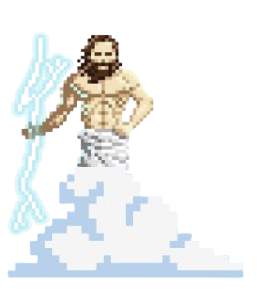
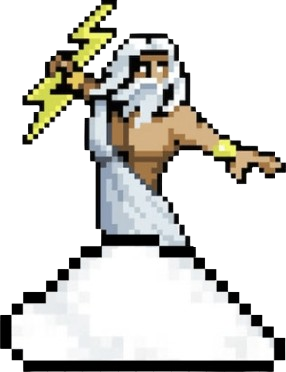
changed lightning hitboxes and updated Zeus

diff --git a/attacks.py b/attacks.py
@@ -1,15 +1,26 @@
 import random
 
+from kivy.clock import Clock
+from kivy.core.window import Window
 from kivy.uix.button import Button
 from kivy.uix.gridlayout import GridLayout
 from kivy.uix.image import Image
+from kivy.uix.label import Label
+
+from music_client import music_client
+from player_class import player
 
 # // images used
 red_circle = './Resources/game_screen/attacks/red_circle.png'
 red_cross = './Resources/game_screen/attacks/red_cross.png'
+lightning_dir = 'Resources/game_screen/lightning/'
+
+joystick_area = [60, 61, 62, 63, 75, 76, 77, 78, 90, 91, 92, 93]
 
 
 class AttackGrid(GridLayout):
+    """Class that creates a grid with labals and red circles indicating incoming lightning bolts"""
+
     def __init__(self, **kwargs):
         super().__init__(**kwargs)
 
@@ -17,26 +28,66 @@ class AttackGrid(GridLayout):
         self.rows = 9
 
         self.status = 'pre_lightning'
-        self.lightning = Lightning()
 
+        # // variables for attack grid
         self.attack_locations = choose_attack_locations()
         self.attack_circles = []
         self.opacity_direction = 'down'
+
+        # // variables for lightning attack
+        self.frames_since_lightning_update = 0
+        self.lightning_animation_frame = 1
+        self.lightning_bolts = []
 
         self.draw_attack_circles()
 
     def draw_attack_circles(self) -> None:
         """Draw a grid of future attack locations marked by a red circle"""
 
-        for i in range(1, 106):
+        for i in range(105):
             if i in self.attack_locations:
                 attack_circle = Image(source=red_circle, allow_stretch=True, keep_ratio=False)
                 self.add_widget(attack_circle)
                 self.attack_circles.append(attack_circle)
             else:
-                self.add_widget(Button(background_color=(0, 0, 0, 1), disabled=True))
+                self.add_widget(Label())
 
-    def update_attack(self) -> None:
+    def draw_lightning(self) -> None:
+        """Updates lightning on screen"""
+
+        for i in range(0, 105):
+            if i in self.attack_locations:
+                lightning_bolt = Image(source=f'{lightning_dir}lightning_frame'
+                                              f'_{self.lightning_animation_frame}.png',
+                                       allow_stretch=True, keep_ratio=False)
+                self.add_widget(lightning_bolt)
+                self.lightning_bolts.append(lightning_bolt)
+
+            # // A label doesn't hinder touching the joystick
+            elif i in joystick_area:
+                self.add_widget(Label())
+            else:
+                self.add_widget(Button(background_color=(0, 0, 0, 0), disabled=True))
+
+        Clock.schedule_once(self.check_for_player_damage)
+
+    def check_for_player_damage(self, instance) -> None:  # noqa
+        """Check if the player is standing in any lightning bolts, if yes subtract 1 from the player's hp"""
+
+        player_tile_x = player.player.x // (Window.size[0] / 15) + 1
+        player_tile_y = player.player.y // (Window.size[1] / 9)
+
+        if player_tile_y > 0:
+            player_tile = 105 - player_tile_y * 15
+        else:
+            player_tile = 105
+        player_tile -= (15 - player_tile_x)
+
+        if player_tile in self.attack_locations:
+            player.hp -= 1
+            return
+
+    def update_attack_animation(self) -> None:
         """Update attack circles or lightning depending on attack status"""
 
         # // if the red warning circles are still on screen
@@ -58,10 +109,31 @@ class AttackGrid(GridLayout):
                 # // remove them from the screen and start the lightning
                 if self.attack_circles[0].opacity == 1:
                     self.clear_widgets()
+                    self.draw_lightning()
+                    music_client.play_thunder_sfx()
                     self.status = 'during_lightning'
 
         elif self.status == 'during_lightning':
-            ...
+
+            # // check if lightning animation frame should be updated
+            if self.frames_since_lightning_update == 10:
+
+                # // update to the next animation frame and end the attack if needed
+                self.lightning_animation_frame += 1
+                if self.lightning_animation_frame == 8:
+                    self.clear_widgets()
+                    self.status = 'finished'
+                    return
+
+                # // update every lightning bolt
+                for image in self.lightning_bolts:
+                    image.source = (f'{lightning_dir}lightning_frame_'
+                                    f'{self.lightning_animation_frame}.png')
+
+                self.frames_since_lightning_update = 0
+
+            else:
+                self.frames_since_lightning_update += 1
 
 
 def choose_attack_locations() -> list:
@@ -69,21 +141,15 @@ def choose_attack_locations() -> list:
 
     locations = []
 
-    for i in range(52):
+    for i in range(26):
+
+        # // Make sure attacks don't spawn in joystick
         while True:
             new_location = random.randint(31, 106)
-            if new_location in [61, 62, 63, 76, 77, 78, 91, 92, 93]:
+            if new_location in joystick_area:
                 continue
             else:
                 break
         locations.append(new_location)
 
     return locations
-
-
-class Lightning:
-    def __init__(self):
-        ...
-
-    def update_lightning(self):
-        ...

diff --git a/game_screen.py b/game_screen.py
@@ -27,7 +27,6 @@ class GameScreen(Screen):
 
     def __init__(self, **kwargs):
         super(GameScreen, self).__init__(**kwargs)
-        self.counter = 0
 
         widgets = game_screen_widgets()
         self.add_widget(widgets)
@@ -62,12 +61,6 @@ class GameScreen(Screen):
                 self.manager.transition = FadeTransition()
                 self.manager.current = 'game_over'
                 self.manager.transition = NoTransition()
-            #
-            # if self.counter == 100:
-            #     player.hp -= 1
-            #     self.counter = 0
-            # else:
-            #     self.counter += 1
 
 
 class game_screen_widgets(FloatLayout):
@@ -122,14 +115,13 @@ class game_screen_widgets(FloatLayout):
         # // update player location on screen
         player.update_player(self)
 
-        # // update Zeus's position
-        zeus.update_zeus(self)
-
         # // update attack
         if self.attack_on_screen is True:
             if self.attack_grid.status == 'finished':
                 self.attack_on_screen = False
                 self.frames_since_last_attack = 0
+            else:
+                self.attack_grid.update_attack_animation()
 
         else:
             if self.frames_since_last_attack == 100:
@@ -139,48 +131,6 @@ class game_screen_widgets(FloatLayout):
 
             else:
                 self.frames_since_last_attack += 1
-
-        # # // update attack
-        # if self.frames_since_attack_change == 100:
-        #     if self.attack_on_screen is True:
-        #         ...
-        #
-        #     else:
-        #         self.attack_grid = AttackGrid()
-        #         self.add_widget(self.attack_grid)
-        #         self.attack_on_screen = True
-        #
-        #     self.frames_since_attack_change = 0
-        #
-        # else:
-        #     if self.attack_on_screen is True:
-        #         self.attack_grid.update_attack()
-        #
-        #     self.frames_since_attack_change += 1
-        #
-        # if self.attack_on_screen:
-        #     self.attack_grid.update_attack_circles()
-        #
-        # elif self.frames_since_attack_change == 100:
-        #     self.attack_grid = AttackGrid()
-        #     self.add_widget(self.attack_grid)
-        #     self.attack_on_screen = True
-        #
-        # else:
-        #     self.frames_since_attack_change += 1
-        # #
-        # # // Update attack
-        # if self.frames_since_attack_change == 100:
-        #     self.frames_since_attack_change = 0
-        #     if self.attack_on_screen is False:
-
-        #     else:
-        #         self.remove_widget(self.attack_grid)
-        #         self.attack_on_screen = False
-        # else:
-        #     self.frames_since_attack_change += 1
-
-
 
 def get_joystick_input(joystick, pad) -> None: # noqa
     """Function to track current position of joystick to get player movement"""

diff --git a/zeus_class.py b/zeus_class.py
@@ -1,7 +1,6 @@
+from kivy.animation import Animation
 from kivy.core.window import Window
 from kivy.uix.image import Image
-from kivy.uix.screenmanager import Screen
-
 
 # // images used
 zeus_image = r'./Resources/game_screen/zeus.png'
@@ -12,47 +11,19 @@ class Zeus:
 
     def __init__(self):
         self.zeus = Image(source=zeus_image, allow_stretch=True,
-                          size_hint=(.2, .3),
-                          x=Window.size[0] // 2 - Window.size[0] // 10,
-                          y=Window.size[1] // 2 + Window.size[1] // 4.5)
+                          size_hint=(.15, .25),
+                          x=Window.size[0] // 2 - Window.size[0] // 12,
+                          y=Window.size[1] // 2 + Window.size[1] // 4.1)
 
-        # // variables used for graphical purposes
-        self.animation_duration = 0
-        self.animation_direction = 'right'
-        self.frames_since_animation = 0
+        self.start_animation()
 
-    def update_zeus(self, screen: Screen) -> None:
-        """Update Zeus's location on screen"""
+    def start_animation(self) -> None:
+        """Start an animation loop for Zeus"""
 
-        screen.remove_widget(self.zeus)
-
-        if self.frames_since_animation == 3:
-
-            if self.animation_direction == 'right':
-
-                if self.animation_duration < 10:
-                    self.zeus.x += Window.size[0] // 1000
-                    self.animation_duration += 1
-
-                else:
-                    self.animation_direction = 'left'
-                    self.animation_duration = 0
-
-            else:
-                if self.animation_duration < 10:
-                    self.zeus.x -= Window.size[0] // 1000
-                    self.animation_duration += 1
-
-                else:
-                    self.animation_direction = 'right'
-                    self.animation_duration = 0
-
-            self.frames_since_animation = 0
-
-        else:
-            self.frames_since_animation += 1
-
-        screen.add_widget(self.zeus)
+        anim = (Animation(x=self.zeus.x + Window.size[0] // 8, y=self.zeus.y, duration=2) +
+                Animation(x=self.zeus.x - Window.size[0] // 8, y=self.zeus.y, duration=2))
+        anim.repeat = True
+        anim.start(self.zeus)
 
 
 zeus = Zeus()

diff --git a/start_screen.py b/start_screen.py
@@ -11,6 +11,7 @@ from user_class import user
 # // text acquired from: https://textcraft.net/
 background_image = './Resources/start_screen/temple_bg.png'
 highscore_text = './Resources/start_screen/highscore_text.png'
+settings_image = './Resources/start_screen/cog.png'
 ricasius_text = './Resources/start_screen/ricasius.png'
 battle_wz_text = './Resources/start_screen/battle_with_zeus.png'
 press_to_start_text = './Resources/start_screen/press_to_start.png'
@@ -30,11 +31,17 @@ class StartScreen(Screen):
         self.start_game_button = Button(background_color=(0, 0, 0, 0))
         self.start_game_button.bind(on_press=self.start_game)
 
-        self.add_widget(start_screen_widgets(self.start_game_button))
+        self.settings_menu_button = Button(background_normal=settings_image, background_down=settings_image,
+                                           disabled=True)
+
+        self.add_widget(start_screen_widgets(self.start_game_button, self.settings_menu_button))
 
 
     def start_game(self, instance) -> None:  # noqa
         self.manager.current = 'game'
+
+    def open_settings(self, instance) -> None: # noqa
+        self.manager.current = 'settings'
 
 
 class start_screen_widgets(FloatLayout):

diff --git a/music_client.py b/music_client.py
@@ -3,6 +3,7 @@ from kivy.core.audio import SoundLoader
 # // files used
 main_theme = './Resources/audio/main_theme.mp3'
 evil_laugh = './Resources/audio/zeus_evil_laugh.mp3'
+thunder_sfx = './Resources/audio/thunder.mp3'
 
 
 class MusicClient:
@@ -16,6 +17,10 @@ class MusicClient:
         self.evil_laugh = SoundLoader.load(filename=evil_laugh)
         self.evil_laugh.loop = False
         self.evil_laugh.volume = .5
+
+        self.thunder_sfx = SoundLoader.load(filename=thunder_sfx)
+        self.thunder_sfx.loop = False
+        self.thunder_sfx.volume = .7
 
     def play_main_theme(self) -> None:
         """Starts playing main theme"""
@@ -31,6 +36,11 @@ class MusicClient:
         """Play demonic laugh"""
 
         self.evil_laugh.play()
+
+    def play_thunder_sfx(self) -> None:
+        """Play thunder impact sound effect"""
+
+        self.thunder_sfx.play()
 
 
 music_client = MusicClient()
